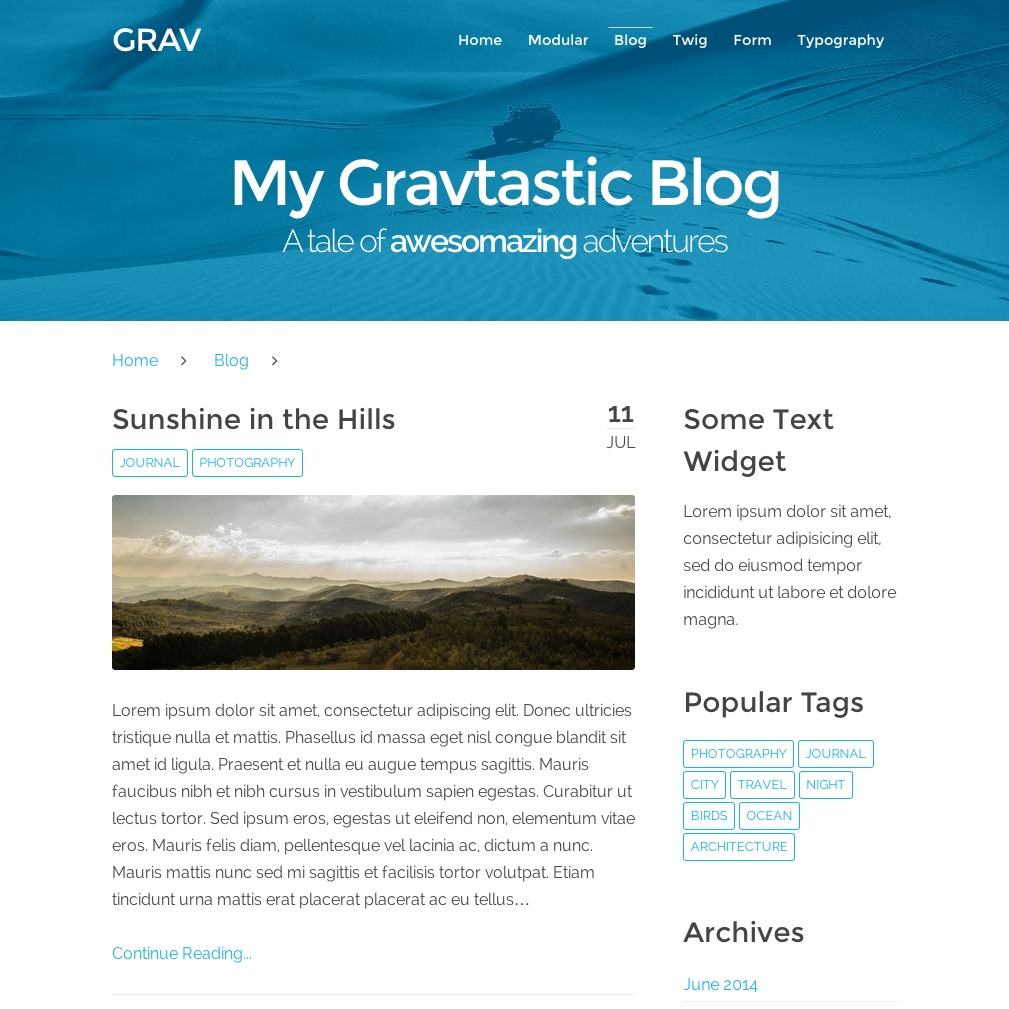
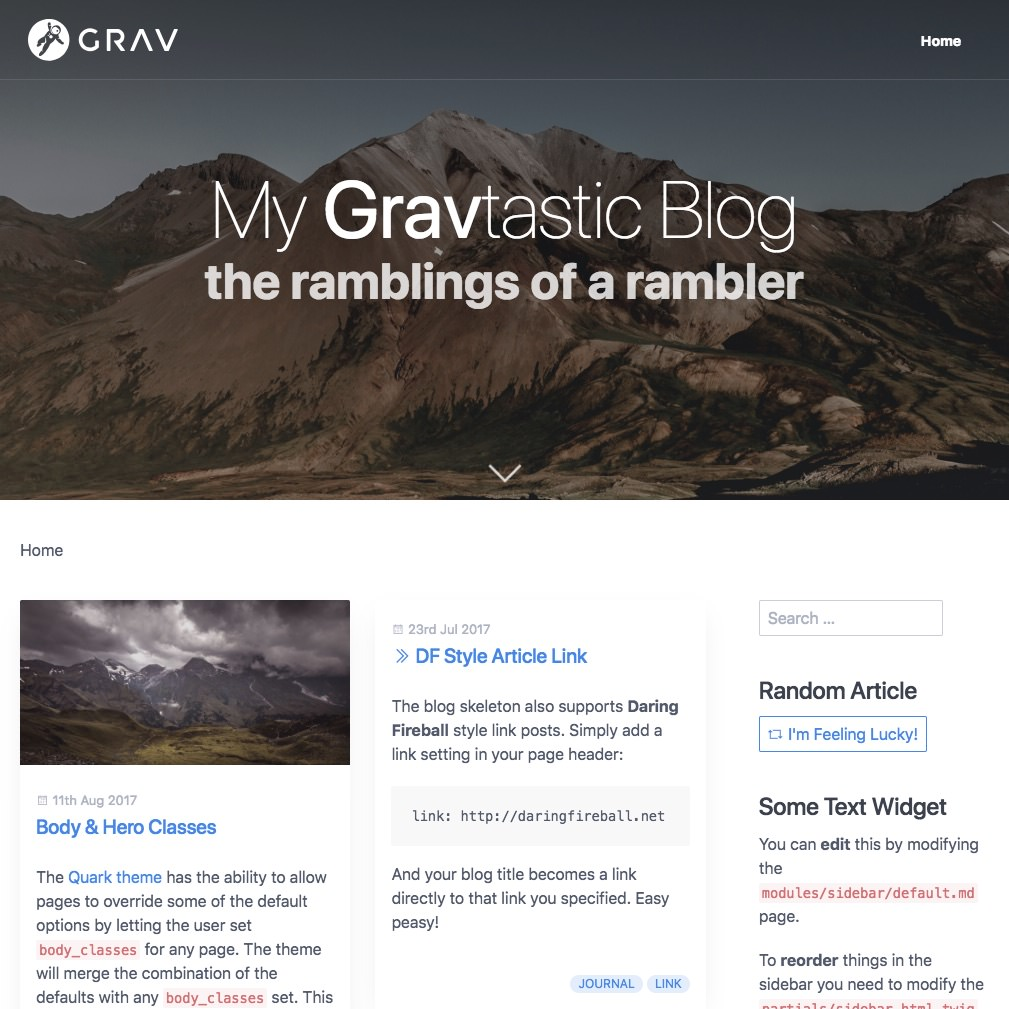
updates for 2.0

diff --git a/CHANGELOG.md b/CHANGELOG.md
@@ -1,3 +1,9 @@
+# v2.0.0
+## 03/26/2018
+
+1. [](#new)
+    * All NEW!!! Based on new Quark theme...
+
 # v1.1.1
 ## 01/06/2016
 
